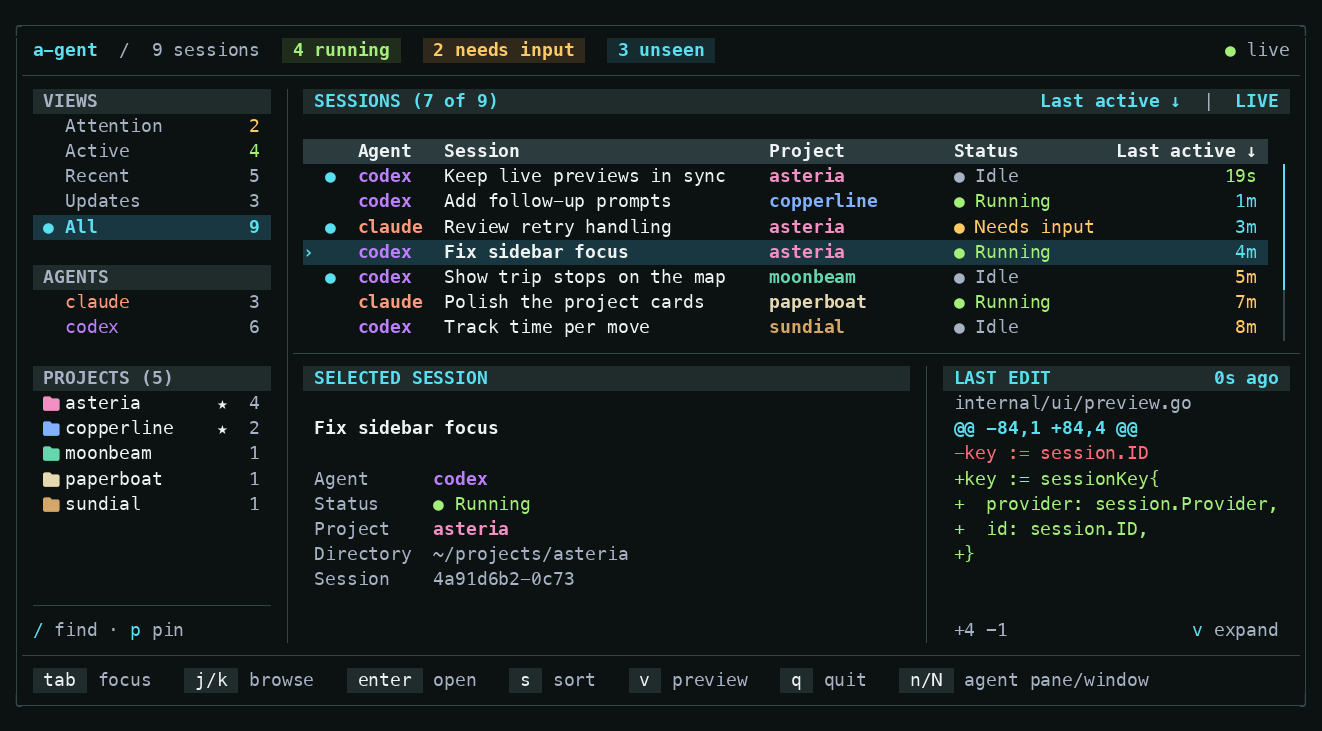
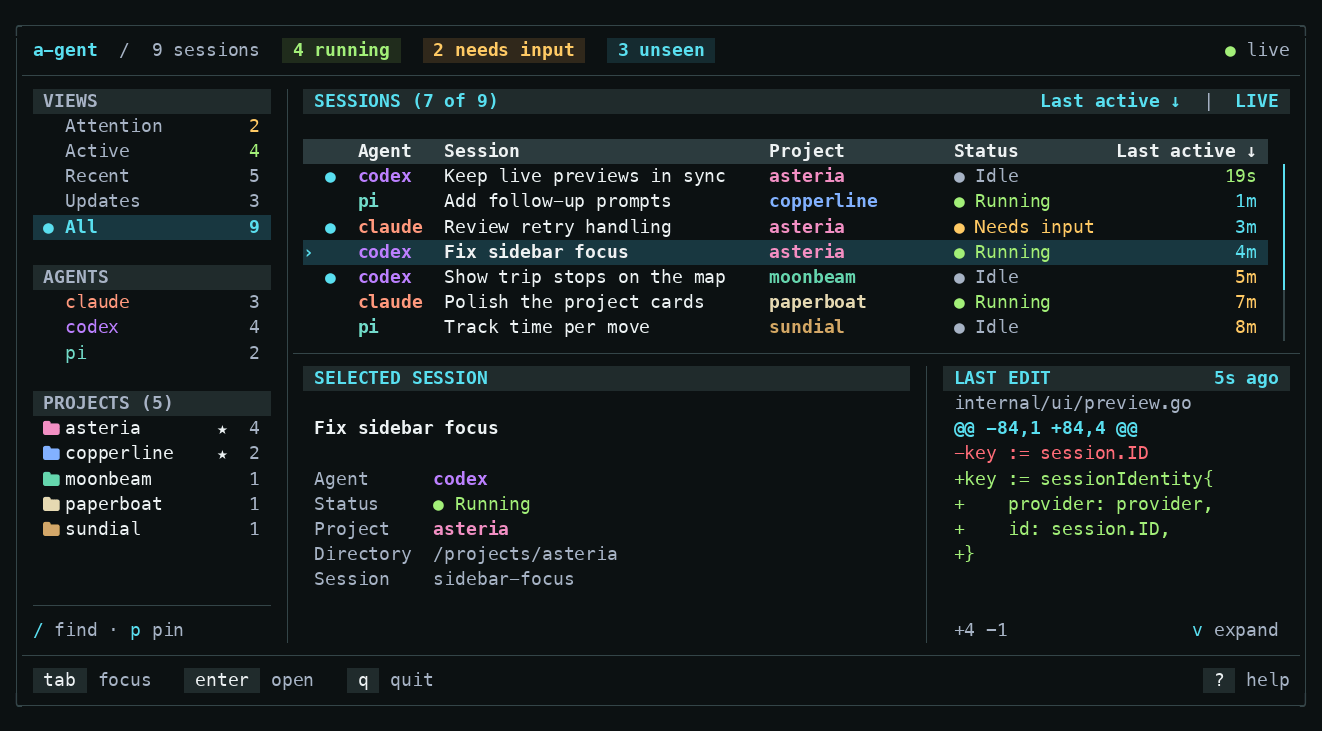
Update supported adapters and refresh README dashboard (#54)

diff --git a/README.md b/README.md
@@ -8,13 +8,46 @@
   <a href="go.mod"><img alt="Go version" src="https://img.shields.io/github/go-mod/go-version/hexaquarks/a-gent?logo=go" /></a>
 </p>
 
-a-gent is a small terminal dashboard for keeping track of Codex and Claude Code
-sessions across projects. See which agents are working or waiting for you, preview
+a-gent is a small terminal dashboard for keeping track of your favorite coding
+agents across projects. See which agents are working or waiting for you, preview
 their activity and file edits, and jump to their tmux panes.
 
 <p align="center">
   <img src="assets/dashboard.png" width="700" alt="a-gent dashboard showing pinned projects, unread session updates, and a color-coded edit preview" />
 </p>
+
+## Supported adapters
+
+<p align="center">
+  <a href="https://github.com/openai/codex"><img alt="Codex" src="https://img.shields.io/badge/Codex-74AA9C" /></a>
+  <a href="https://github.com/anthropics/claude-code"><img alt="Claude Code" src="https://img.shields.io/badge/Claude_Code-D97757" /></a>
+  <a href="https://github.com/anomalyco/opencode"><img alt="OpenCode" src="https://img.shields.io/badge/OpenCode-4B5563" /></a>
+  <a href="https://github.com/badlogic/pi-mono/tree/main/packages/coding-agent"><img alt="Pi" src="https://img.shields.io/badge/Pi-8B5CF6" /></a>
+  <a href="https://github.com/NousResearch/hermes-agent"><img alt="Hermes" src="https://img.shields.io/badge/Hermes-F59E0B" /></a>
+</p>
+
+Install the agents you use through the links above and make their commands
+available on your `PATH`:
+
+| Adapter | Command | Compatibility |
+| --- | --- | --- |
+| Codex | `codex` | Sessions launched with `--no-daemon` are not shown. |
+| Claude Code | `claude` | Must support `claude agents --json`. |
+| OpenCode | `opencode` | — |
+| Pi | `pi` | — |
+| Hermes | `hermes` | — |
+
+Sessions are discovered automatically, including those started from a shell.
+All five adapters support activity and edit previews, and launching a new
+interactive instance in a tmux pane or window from the dashboard.
+
+> [!IMPORTANT]
+> a-gent automatically installs the OpenCode and Hermes plugins and the Pi
+> extension. After your first launch, restart existing OpenCode and Hermes
+> sessions; in Pi, run `/reload` or restart.
+
+> [!NOTE]
+> Pi shows running or idle; it cannot identify approval prompts from extensions.
 
 ## Install
 
@@ -26,15 +59,9 @@ cd a-gent
 make install
 ```
 
-The binary is installed to `~/.local/bin`. Add that directory to your `PATH`, or
-choose another destination with `make install BIN_DIR=/path/to/bin`.
-
-## Supported adapters
-
-- Codex: requires `codex` on your `PATH` and a running local app-server daemon.
-- Claude Code: requires `claude` on your `PATH` with support for `claude agents --json`.
-
-Sessions are discovered automatically from the local providers.
+> [!TIP]
+> The binary is installed to `~/.local/bin`. Add that directory to your `PATH`,
+> or choose another destination with `make install BIN_DIR=/path/to/bin`.
 
 ## Usage
 
@@ -51,6 +78,7 @@ jump to its matching tmux pane. Outside tmux, it runs directly in your terminal.
   to apply a filter.
 - Press `/` to search projects and `p` to pin or unpin a project in the sidebar.
 - Press `s` to change the sort column or `S` to reverse it.
+- Press `n` to launch an agent in a new tmux pane, or `N` for a new window.
 - Press `v` to expand the preview and Escape to return; press `q` to quit.
 
 ## Local development
